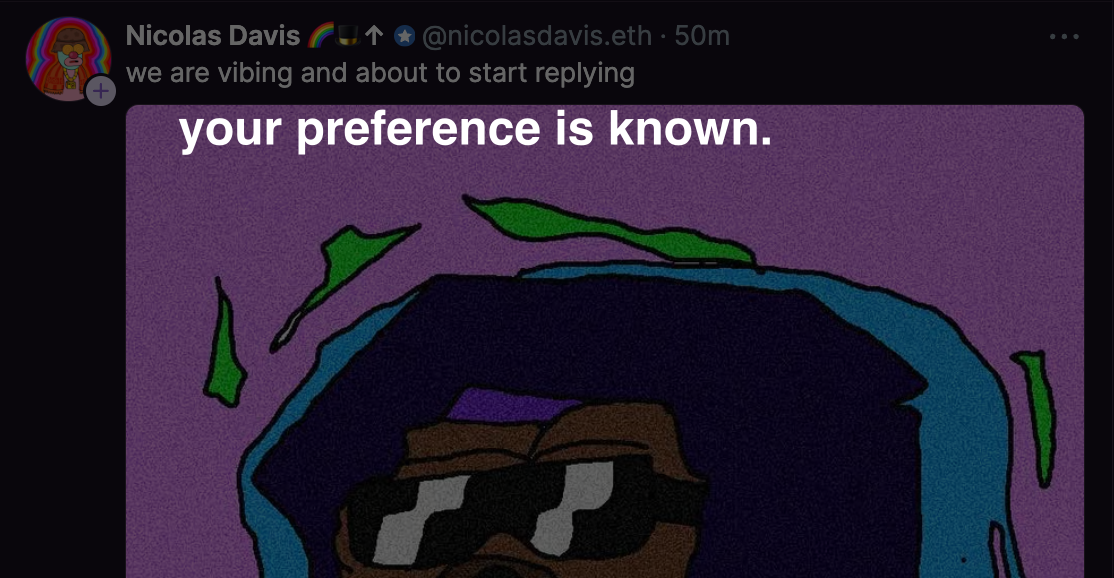
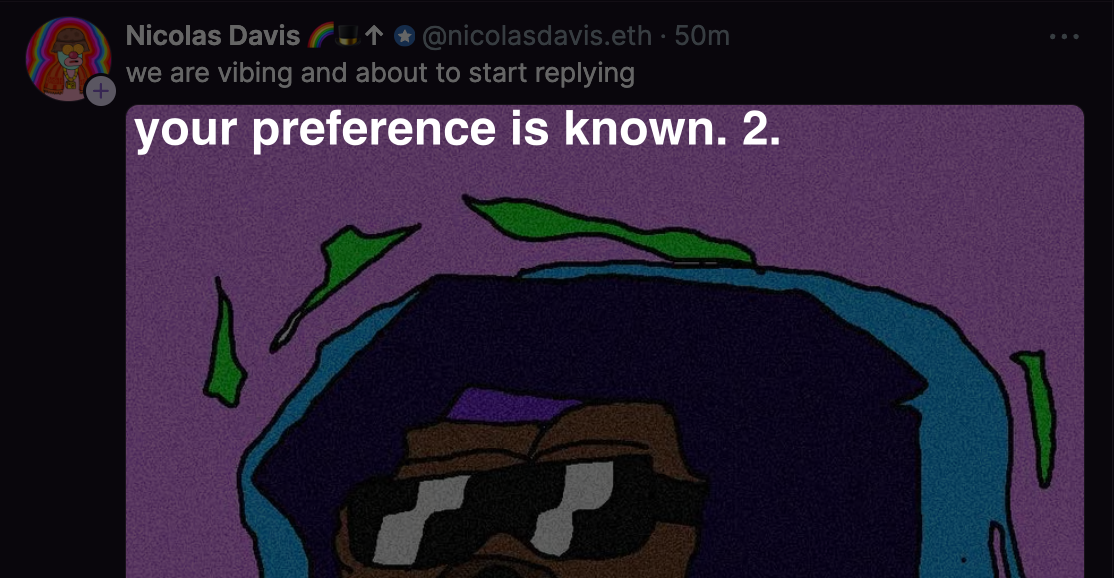
aloja

Changed region(s): [[0.1221, 0.1869, 0.702, 0.2803]]

diff --git a/routes/farhack/index.js b/routes/farhack/index.js
@@ -35,7 +35,6 @@ router.get("/", async (req, res) => {
 
 router.get("/image", async (req, res) => {
   try {
-    console.log("req", req.query);
     const imageCopy = decodeURIComponent(req.query.text);
 
     const response = await axios({
@@ -53,7 +52,7 @@ router.get("/image", async (req, res) => {
           <style>
             .text { font: bold 48px sans-serif; fill: white; text-anchor: start; }
           </style>
-          <text x="16%" y="25%" class="text" dominant-baseline="hanging">${imageCopy}</text>
+          <text x="12%" y="25%" class="text" dominant-baseline="hanging">${imageCopy}</text>
         </svg>`;
 
     sharp(imageBuffer)
@@ -79,7 +78,6 @@ router.get("/image", async (req, res) => {
 router.post("/", async (req, res) => {
   try {
     const fullUrl = req.protocol + "://" + req.get("host");
-    console.log("inside the post route", req.body);
     const imageCopy = "times per day?";
     return res.status(200).send(`
       <!DOCTYPE html>
@@ -109,20 +107,92 @@ router.post("/", async (req, res) => {
 router.post("/second-frame", async (req, res) => {
   try {
     let imageCopy;
-    console.log("this is the second frame route.", req.body);
     const fullUrl = req.protocol + "://" + req.get("host");
-
-    if (
-      [1, 2, 3].includes(req.body.untrustedData.buttonIndex) ||
-      req.body.untrustedData.inputText
-    ) {
-      // send this information to the bot so that it can know how often to reply
-      let isValidNumber = Number(req.body.untrustedData.inputText);
-      console.log("the is valid number is: ", isValidNumber);
-      if (!isValidNumber) {
-        console.log(req.body.untrustedData);
+    if (req.body.untrustedData.inputText) {
+      let inputText = req.body.untrustedData.inputText;
+      let isValidNumber = Number(inputText);
+      if (isValidNumber) {
+        if (isValidNumber < 11) {
+          imageCopy = `your preference is known. ${isValidNumber}.`;
+          return res.status(200).send(`
+        <!DOCTYPE html>
+        <html>
+        <head>
+          <title>${botName}</title>
+          <meta property="og:title" content="anky mint">
+          <meta property="og:image" content=${fullUrl}/farhack/image?text=}>
+          <meta name="fc:frame" content="vNext">
+          <meta name="fc:frame:image" content=${fullUrl}/farhack/image?text=${encodeURIComponent(
+            imageCopy
+          )}>
+          </head>
+        </html>
+          `);
+        } else {
+          imageCopy = req.body.untrustedData.inputText;
+          return res.status(200).send(`
+        <!DOCTYPE html>
+        <html>
+        <head>
+          <title>${botName}</title>
+          <meta property="og:title" content="anky mint">
+          <meta property="og:image" content=${fullUrl}/farhack/image?text=}>
+          <meta name="fc:frame" content="vNext">
+          <meta name="fc:frame:image" content=${fullUrl}/farhack/image?text=${encodeURIComponent(
+            imageCopy
+          )}>
+          <meta name="fc:frame:post_url" content="${fullUrl}/farhack/second-frame" />
+          <meta name="fc:frame:input:text" content="1 2 3 4 5 6 7 8 9" />
+          <meta name="fc:frame:button:1" content="submit" />
+          </head>
+        </html>
+          `);
+        }
+      } else {
+        // this is the place
         imageCopy = req.body.untrustedData.inputText;
         return res.status(200).send(`
+        <!DOCTYPE html>
+        <html>
+        <head>
+          <title>${botName}</title>
+          <meta property="og:title" content="anky mint">
+          <meta property="og:image" content=${fullUrl}/farhack/image?text=}>
+          <meta name="fc:frame" content="vNext">
+          <meta name="fc:frame:image" content=${fullUrl}/farhack/image?text=${encodeURIComponent(
+          imageCopy
+        )}>
+          <meta name="fc:frame:post_url" content="${fullUrl}/farhack/second-frame" />
+          <meta name="fc:frame:input:text" content="1 2 3 4 5 6 7 8 9" />
+          <meta name="fc:frame:button:1" content="submit" />
+          </head>
+        </html>
+          `);
+      }
+    }
+
+    if ([1, 2, 3].includes(req.body.untrustedData.buttonIndex)) {
+      imageCopy = `your preference is known. ${req.body.untrustedData.buttonIndex}.`;
+      return res.status(200).send(`
+        <!DOCTYPE html>
+        <html>
+        <head>
+          <title>${botName}</title>
+          <meta property="og:title" content="anky mint">
+          <meta property="og:image" content=${fullUrl}/farhack/image?text=}>
+          <meta name="fc:frame" content="vNext">
+          <meta name="fc:frame:image" content=${fullUrl}/farhack/image?text=${encodeURIComponent(
+        imageCopy
+      )}>
+          <meta name="fc:frame:post_url" content="${fullUrl}/farhack/second-frame" />
+          </head>
+        </html>
+          `);
+    }
+
+    imageCopy = "how many times per day you want to be roasted?";
+
+    return res.status(200).send(`
       <!DOCTYPE html>
       <html>
       <head>
@@ -131,51 +201,14 @@ router.post("/second-frame", async (req, res) => {
         <meta property="og:image" content=${fullUrl}/farhack/image?text=}>
         <meta name="fc:frame" content="vNext">
         <meta name="fc:frame:image" content=${fullUrl}/farhack/image?text=${encodeURIComponent(
-          imageCopy
-        )}>
+      imageCopy
+    )}>
         <meta name="fc:frame:post_url" content="${fullUrl}/farhack/second-frame" />
         <meta name="fc:frame:input:text" content="1 2 3 4 5 6 7 8 9" />
         <meta name="fc:frame:button:1" content="submit" />
         </head>
       </html>
         `);
-      }
-      const repliesPerDay = req.body.untrustedData.textInput;
-      imageCopy = "your preference is known.";
-      return res.status(200).send(`
-      <!DOCTYPE html>
-      <html>
-      <head>
-        <title>${botName}</title>
-        <meta property="og:title" content="anky mint">
-        <meta property="og:image" content=${fullUrl}/farhack/image?text=}>
-        <meta name="fc:frame" content="vNext">
-        <meta name="fc:frame:image" content=${fullUrl}/farhack/image?text=${encodeURIComponent(
-        imageCopy
-      )}>
-        </head>
-      </html>
-        `);
-    } else {
-      imageCopy = "enter a number smaller than 10";
-      return res.status(200).send(`
-      <!DOCTYPE html>
-      <html>
-      <head>
-        <title>${botName}</title>
-        <meta property="og:title" content="anky mint">
-        <meta property="og:image" content=${fullUrl}/farhack/image?text=}>
-        <meta name="fc:frame" content="vNext">
-        <meta name="fc:frame:image" content=${fullUrl}/farhack/image?text=${encodeURIComponent(
-        imageCopy
-      )}>
-        <meta name="fc:frame:post_url" content="${fullUrl}/farhack/second-frame" />
-        <meta name="fc:frame:input:text" content="send" />
-        <meta name="fc:frame:button:1" content="submit" />
-        </head>
-      </html>
-        `);
-    }
   } catch (error) {
     console.log("there was an error here", error);
   }
